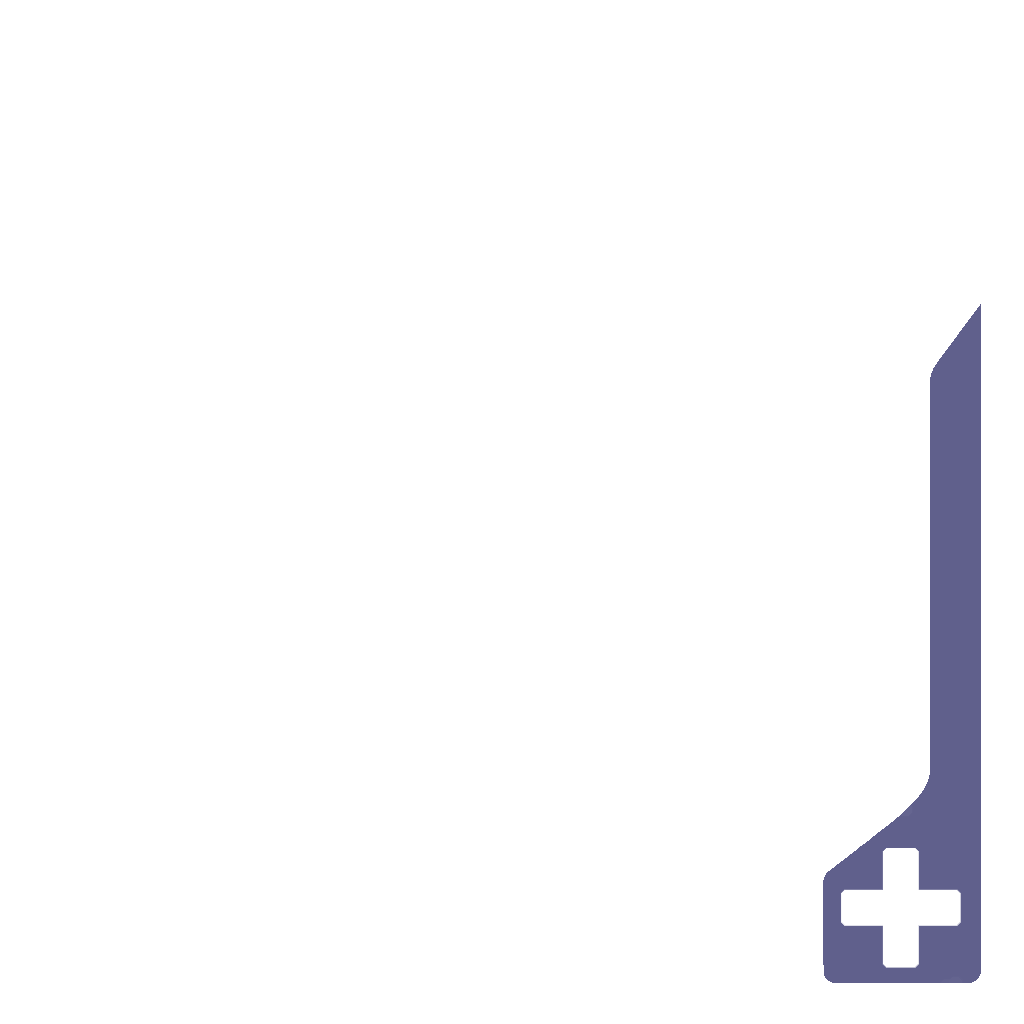
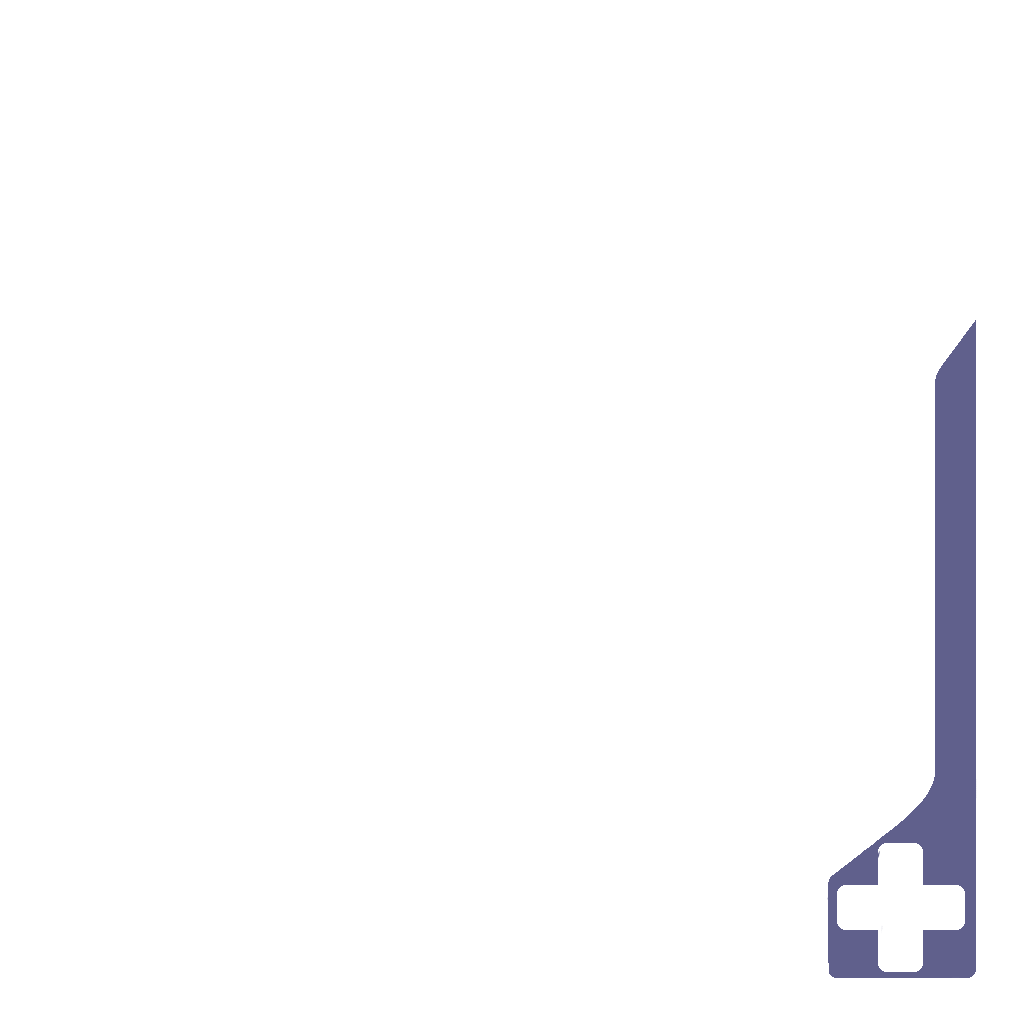
fixed shields, fixed hud, re-added images to main menu, modified how the ingame menu works

Changed region(s): [[0.7812, 0.3125, 0.9688, 0.9688]]

diff --git a/src/graphics/Hud.java b/src/graphics/Hud.java
@@ -26,15 +26,15 @@ public class Hud extends HUDTools {
     private static final String GUNAMMOSINGLE = "assets/images/hud/gun_ammo_single.png";
     private static final String GUNAMMODOUBLE = "assets/images/hud/gun_ammo_double.png";
     private static final String GUNAMMOMISSILE = "assets/images/hud/gun_ammo_missile.png";
-    
+
     private Player player;
     private PlayerShip ship;
     private Texture healthbackdrop, healthbar, shieldbar, gunbar, gunbackdrop;
     private Texture healthcross, crosshair, gunammo;
-    
+
     public Hud(Player player) {
         this.player = player;
-        
+
         healthbackdrop = Texture.findOrCreateByName(HEALTHBACKDROP);
         healthbar = Texture.findOrCreateByName(HEALTHBAR);
         shieldbar = Texture.findOrCreateByName(SHIELDBAR);
@@ -44,94 +44,109 @@ public class Hud extends HUDTools {
         gunammo = Texture.findOrCreateByName(GUNAMMODOUBLE);
         crosshair = Texture.findOrCreateByName(CROSSHAIRDUAL);
     }
-    
+
     /**
      * Draws the static elements of the HUD     
      * @param gl
      */
     public void drawStaticHud(GL2 gl) {
         this.gl = gl;
-       
+
         if (! player.isAlive())
             return;
-        
+
         update();
-        
+
         start2D();
         //drawEnergy(gl);
-        
+
         // Set the crosshair color to green
         gl.glColor4f(0.0f, 1.0f, 0.0f, 0.0f);
-        
+
         if(crosshair != null) {
             crosshair.bind(gl);
         }
         gl.glBegin(GL2.GL_QUADS);
         int s = HEIGHT / 2; // Cross hair 10% screen height
-        
+
         draw(-s / 2, -s / 2, s, s);
         gl.glEnd();
         gl.glColor4f(0.0f, 0.0f, 0.0f, 1.0f);
-        
-        if(healthbackdrop != null) { 
-            healthbackdrop.bind(gl);
+
+        {//Health/Shield Bar
+            float xStart = 0;
+            float xEnd = WIDTH;
+            
+            float yStart = -HEIGHT;
+            float yEnd = HEIGHT;
+
+            if(healthbackdrop != null) { 
+                healthbackdrop.bind(gl);
+            }
+
+            gl.glBegin(GL2.GL_QUADS );
+            draw(xStart, yStart, xEnd , yEnd );
+            gl.glEnd();
+
+
+            if(healthbar != null) {
+                healthbar.bind(gl);
+            }
+
+            //draws the health bar
+            gl.glBegin(GL2.GL_QUADS );
+            drawBarGraph(xStart, yStart, xEnd , yEnd , ship.health()*0.72f);
+            gl.glEnd();
+
+            if(shieldbar!=null){
+                shieldbar.bind(gl);
+            }
+            gl.glBegin(GL2.GL_QUADS );
+            drawBarGraph(xStart, yStart, xEnd , yEnd , ship.shield()*0.70f);
+            gl.glEnd();
+
+            //health cross
+            if(healthcross != null) {
+                healthcross.bind(gl);
+            }
+
+            gl.glBegin(GL2.GL_QUADS );
+            draw(xStart, yStart, xEnd , yEnd );
+            gl.glEnd();
         }
 
-        gl.glBegin(GL2.GL_QUADS );
-        draw(-WIDTH, -HEIGHT, WIDTH *2, HEIGHT * 2);
-        gl.glEnd();
+        {//Gun bar code
+            float xStart = -WIDTH;
+            float xEnd = WIDTH;
+            
+            float yStart = -HEIGHT;
+            float yEnd = HEIGHT;
+            
+            if(gunbackdrop != null) {
+                gunbackdrop.bind(gl);
+            }
 
-        
-        if(healthbar != null) {
-            healthbar.bind(gl);
+            gl.glBegin(GL2.GL_QUADS );
+            draw(xStart, yStart, xEnd , yEnd);
+            gl.glEnd();
+
+            if(gunbar != null) {
+                gunbar.bind(gl);
+            }
+
+            //draw the percent bar for the gun
+            gl.glBegin(GL2.GL_QUADS );
+            drawBarGraph(xStart, yStart, xEnd , yEnd,ship.getWeapon().getAmmoPercent()*0.72f);
+            gl.glEnd();
+
+            if(gunammo != null) {
+                gunammo.bind(gl);
+            }
+
+            gl.glBegin(GL2.GL_QUADS );
+            draw(xStart, yStart, xEnd , yEnd);
+            gl.glEnd();
         }
-        
-        //draws the health bar
-        gl.glBegin(GL2.GL_QUADS );
-        drawBarGraph(-WIDTH, -HEIGHT, WIDTH *2, HEIGHT * 2, ship.health()*0.72f);
-        gl.glEnd();
-        
-        if(shieldbar!=null){
-            shieldbar.bind(gl);
-        }
-        gl.glBegin(GL2.GL_QUADS );
-        drawBarGraph(-WIDTH, -HEIGHT, WIDTH *2, HEIGHT * 2, ship.shield()*0.70f);
-        gl.glEnd();
-
-        //health cross
-        if(healthcross != null) {
-            healthcross.bind(gl);
-        }
-
-        gl.glBegin(GL2.GL_QUADS );
-        draw(-WIDTH, -HEIGHT, WIDTH *2, HEIGHT * 2);
-        gl.glEnd();
-        
-        
-        if(gunbackdrop != null) {
-            gunbackdrop.bind(gl);
-        }
-
-        gl.glBegin(GL2.GL_QUADS );
-        draw(-WIDTH, -HEIGHT, WIDTH *2, HEIGHT * 2);
-        gl.glEnd();
-
-        if(gunbar != null) {
-            gunbar.bind(gl);
-        }
-
-        //draw the percent bar for the gun
-        gl.glBegin(GL2.GL_QUADS );
-        drawBarGraph(-WIDTH, -HEIGHT, WIDTH *2, HEIGHT * 2,ship.getWeapon().getAmmoPercent()*0.72f);
-        gl.glEnd();
-
-        if(gunammo != null) {
-            gunammo.bind(gl);
-        }
-
-        gl.glBegin(GL2.GL_QUADS );
-        draw(-WIDTH, -HEIGHT, WIDTH *2, HEIGHT * 2);
-        gl.glEnd();
 
         gl.glFlush();
         stop2D();
@@ -159,7 +174,7 @@ public class Hud extends HUDTools {
     }
 
     private void setupCrossHair(Weapon<? extends Projectile> weapon) {
-        
+
         if (weapon instanceof actor.ship.weapon.AlternatingWeapon<?>) {
             crosshair = Texture.findOrCreateByName(CROSSHAIRDUAL);
             gunammo = Texture.findOrCreateByName(GUNAMMODOUBLE);
@@ -170,7 +185,7 @@ public class Hud extends HUDTools {
             crosshair = Texture.findOrCreateByName(CROSSHAIRSINGLE);
             gunammo = Texture.findOrCreateByName(GUNAMMOSINGLE);
         }
-        
+
         Projectile p = weapon.newProjectile(ship);
         if (p instanceof actor.ship.projectile.Missile) {
             gunammo = Texture.findOrCreateByName(GUNAMMOMISSILE);

diff --git a/src/game/MainMenu.java b/src/game/MainMenu.java
@@ -49,14 +49,14 @@ public class MainMenu extends JPanel implements ActionListener {
     private static final String CONTROLLER_ON = "assets/images/mainmenu/controller_on.png";
     private static final String CONTROLLER_OFF = "assets/images/mainmenu/controller_off.png";
 
-    private static final String SOUND_ON = "assets/images/mainmenu/sound_on.png";
-    private static final String SOUND_OFF = "assets/images/mainmenu/sound_off.png";
+    private static final String SOUND_ON = "assets/images/mainmenu/sound_checked.png";
+    private static final String SOUND_OFF = "assets/images/mainmenu/sound_unchecked.png";
 
-    private static final String SHADERS_ON = "assets/images/mainmenu/shaders_on.png";
-    private static final String SHADERS_OFF = "assets/images/mainmenu/shaders_on.png";
+    private static final String SHADERS_ON = "assets/images/mainmenu/shaders_checked.png";
+    private static final String SHADERS_OFF = "assets/images/mainmenu/shaders_unchecked.png";
 
-    private static final String PARTICLES_ON = "assets/images/mainmenu/particles_on.png";
-    private static final String PARTICLES_OFF = "assets/images/mainmenu/particles_off.png";
+    private static final String PARTICLES_ON = "assets/images/mainmenu/particles_checked.png";
+    private static final String PARTICLES_OFF = "assets/images/mainmenu/particles_unchecked.png";
 
     private static final String BACK = "assets/images/mainmenu/back.png";
     private static final String BACK_SELECTED = "assets/images/mainmenu/back_selected.png";

diff --git a/src/input/KeyboardListener.java b/src/input/KeyboardListener.java
@@ -109,10 +109,14 @@ public class KeyboardListener implements KeyListener, Updateable {
             InputRouter.sendAction(InputRouter.Interaction.CLOSE_MENU);
         }*/
         if(currentKeys[Settings.Profile.Keys.mainMenuDown]){
-            InputRouter.sendAction(InputRouter.Interaction.MENU_DOWN);
+            if(!previousKeys[Settings.Profile.Keys.mainMenuDown]){
+                InputRouter.sendAction(InputRouter.Interaction.MENU_DOWN);
+            }
         }
         if(currentKeys[Settings.Profile.Keys.mainMenuUp]){
-            InputRouter.sendAction(InputRouter.Interaction.MENU_UP);
+            if(!previousKeys[Settings.Profile.Keys.mainMenuUp]){
+                InputRouter.sendAction(InputRouter.Interaction.MENU_UP);
+            }
         }
         if(currentKeys[Settings.Profile.Keys.menuSelect]){
             InputRouter.sendAction(InputRouter.Interaction.MENU_SELECT);

diff --git a/src/actor/ship/shield/Shield.java b/src/actor/ship/shield/Shield.java
@@ -14,7 +14,7 @@ public abstract class Shield implements Serializable{
         age = 0;
         lastHit = 0;
     }
-    
+
     public int getStrength() {
         return strength;
     }
@@ -26,8 +26,12 @@ public abstract class Shield implements Serializable{
 
     public void update(){
         age++;
-        if(age - lastHit > 600)
-            strength += rechargeRate;
+        if(age - lastHit > 600){
+            if(strength<maxStrength){
+                strength += rechargeRate;
+            }
+        }
+
     }
     /**
      * 
